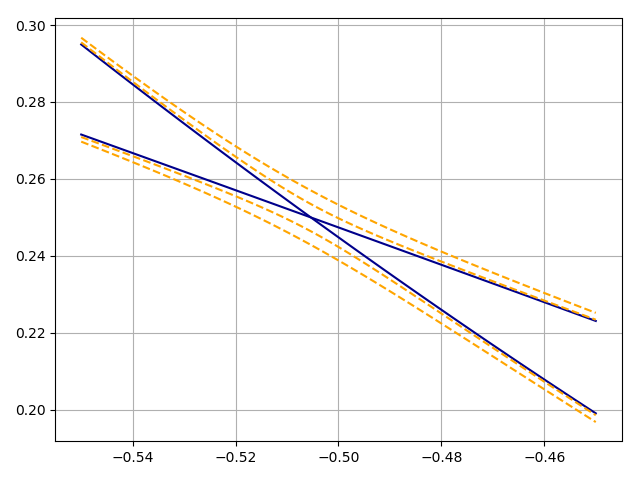
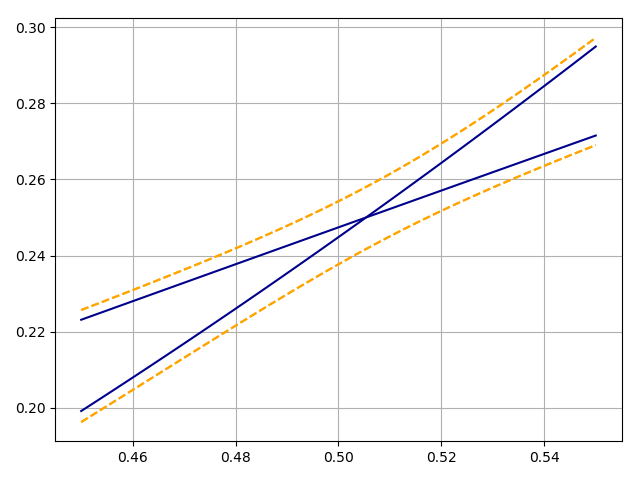
changed file names

diff --git a/examples/magnon_polarons_unidimensional.py b/examples/magnon_polarons_unidimensional.py
@@ -22,18 +22,18 @@ mu_B = 1
 g = 1
 S = 1
 J = 1
-Dz = 0
+Dz = 0.0
 Bz = 0
 
 # magnon polarons constants
-Dprime = [0.0, 0.0, 0.0]
-Bprime = [0.0, 0.01, 0.0]
+Dprime = [0.01, 0.02, 0.03]
+Bprime = [0.01, 0.02, 0.03]
 
 # lattice constants
 a = 1
 k_arr = np.linspace(-np.pi/a, np.pi/a, num=100)
 
-k_arr = np.linspace(-0.55, -0.45, num=100)
+k_arr = np.linspace(0.45, 0.55, num=100)
 # ylim = [0.20, 0.3]
 
 
@@ -47,16 +47,10 @@ def main():
 # # # # # # # # # # # # # # # # # # # # # # # # # # # # # # # # # # # # # # # #
 # Functions
 # # # # # # # # # # # # # # # # # # # # # # # # # # # # # # # # # # # # # # # #
-def phi(k):
-    return np.sqrt(0.5*hbar) * (
-        np.sqrt(0.5*S**3)*(-1j*Dprime[0]+Dprime[1])*np.abs(np.exp(1j*k*a)-1)**2 -
-        mu_B*g*np.sqrt(0.5*S)*(Bprime[0]+1j*Bprime[1])
-    )
-
 def psi(k):
-    return np.sqrt(0.5*hbar) * (
-        np.sqrt(0.5*S**3)*(1j*Dprime[0]+Dprime[1])*(np.exp(1j*k*a)-1)**2 -
-        mu_B*g*np.sqrt(0.5*S)*(Bprime[0]-1j*Bprime[1])
+    return np.sqrt(0.25*hbar*S) * (
+        S*(1j*Dprime[0]+Dprime[1])*np.abs(np.exp(1j*k*a)-1)**2 -
+        mu_B*g*(Bprime[0]-1j*Bprime[1])
     )
 
 def create_Tmatrix(k):
@@ -68,11 +62,11 @@ def create_Tmatrix(k):
     Tmatrix[2,2] = 2*J*S*(1-np.cos(k*a)) - 2*Dz*S*np.sin(k*a) + mu_B*g*Bz
     Tmatrix[3,3] = hbar/(4*m) + hbar*m*omega**2*(1-np.cos(k*a))/2
 
-    Tmatrix[0,1] = 0.5*phi(k) + 0.5*np.conjugate(psi(-k))
-    Tmatrix[1,0] = np.conjugate( 0.5*phi(k) + 0.5*np.conjugate(psi(-k)) )
+    Tmatrix[0,1] = 0.5*np.conjugate(psi(k))
+    Tmatrix[1,0] = 0.5*psi(k)
 
-    Tmatrix[2,3] = 0.5*psi(k) + 0.5*np.conjugate(phi(-k))
-    Tmatrix[3,2] = np.conjugate( 0.5*psi(k) + 0.5*np.conjugate(phi(-k)) )
+    Tmatrix[2,3] = 0.5*np.conjugate(psi(k))
+    Tmatrix[3,2] = 0.5*psi(k)
 
     return Tmatrix
 
@@ -84,11 +78,11 @@ def create_Umatrix(k):
     Umatrix[1,3] = -hbar/(4*m) + hbar*m*omega**2*(1-np.cos(k*a))/2
     Umatrix[3,1] = -hbar/(4*m) + hbar*m*omega**2*(1-np.cos(k*a))/2
 
-    Umatrix[0,3] = 0.5*phi(k) + 0.5*np.conjugate(psi(-k))
-    Umatrix[3,0] = 0.5*phi(k) + 0.5*np.conjugate(psi(-k))
+    Umatrix[0,3] = 0.5*np.conjugate(psi(k))
+    Umatrix[3,0] = 0.5*np.conjugate(psi(k))
 
-    Umatrix[1,2] = 0.5*phi(-k) + 0.5*np.conjugate(psi(k))
-    Umatrix[2,1] = 0.5*phi(-k) + 0.5*np.conjugate(psi(k))
+    Umatrix[1,2] = 0.5*np.conjugate(psi(k))
+    Umatrix[2,1] = 0.5*np.conjugate(psi(k))
 
     return Umatrix
 
@@ -96,18 +90,18 @@ def create_Umatrix(k):
 def dispersion_relation(k_arr):
     num_k = k_arr.shape[0]
 
-    energies = np.zeros((4, num_k))
+    energies = np.zeros((4*2, num_k))
     U = [None for _ in range(num_k)]
 
     for i, k in enumerate(k_arr):
         bosonic_system = BosonicSystem(create_Tmatrix(k), create_Umatrix(k))
-        energies[:,i] = bosonic_system.energies()
+        energies[:,i], U[i] = bosonic_system.diagonalize()
 
     fig = plt.figure()
     ax = fig.add_subplot(111)
     ax.plot(k_arr, phonon_energy(k_arr), color="darkblue")
     ax.plot(k_arr, magnon_energy(k_arr), color="darkblue")
-    for i in range(len(energies)):
+    for i in range(len(energies)//2):
         ax.plot(k_arr, energies[i,:], '--', color="orange")
 
     try:

diff --git a/examples/phonons_threedimensional.py b/examples/phonons_threedimensional.py
@@ -1,0 +1,85 @@
+# coding: utf-8
+# !/usr/bin/env python
+
+import numpy as np
+import os
+import sys
+
+sys.path.insert(0, "..")
+from BosonicSystem import *
+
+# # # # # # # # # # # # # # # # # # # # # # # # # # # # # # # # # # # # # # # #
+# Constants
+# # # # # # # # # # # # # # # # # # # # # # # # # # # # # # # # # # # # # # # #
+hbar = 1
+m = 1
+phi = np.array( [1, 2, 3] )
+a = 1
+k_arr = np.linspace(-np.pi/a, np.pi/a, num=100)
+
+os.chdir("..")
+
+# # # # # # # # # # # # # # # # # # # # # # # # # # # # # # # # # # # # # # # #
+# main
+# # # # # # # # # # # # # # # # # # # # # # # # # # # # # # # # # # # # # # # #
+def main():
+    dispersion_relation(k_arr)
+
+
+# # # # # # # # # # # # # # # # # # # # # # # # # # # # # # # # # # # # # # # #
+# Functions
+# # # # # # # # # # # # # # # # # # # # # # # # # # # # # # # # # # # # # # # #
+def create_Tmatrix(k):
+    u = hbar/(4*m)
+    v = hbar/4 * (np.exp(1j*k*a)-1)*(np.exp(-1j*k*a)-1) * phi
+    Tmatrix = np.zeros((2*3, 2*3), dtype=complex)
+
+    # alpha = {c{k,1}, c{k,2}, c{k,3}, c{-k,1}, c{-k,2}, c{-k,3}}
+    for lambd in range(3):
+        Tmatrix[lambd,lambd] = u + v[lambd]
+        Tmatrix[3+lambd,3+lambd] = u + v[lambd]
+
+    return Tmatrix
+
+
+def create_Umatrix(k):
+    u = hbar/(4*m)
+    v = hbar/4 * (np.exp(1j*k*a)-1)*(np.exp(-1j*k*a)-1) * phi
+    Umatrix = np.zeros((2*3, 2*3), dtype=complex)
+
+    # alpha = {a{k}, a{-k}}
+    for lambd in range(3):
+        Umatrix[lambd,3+lambd] = -u + v[lambd]
+        Umatrix[3+lambd,lambd] = -u + v[lambd]
+
+    return Umatrix
+
+
+def dispersion_relation(k_arr):
+    num_k = k_arr.shape[0]
+
+    energies = np.zeros((2*3, num_k))
+    U = [None for _ in range(num_k)]
+
+    for i, k in enumerate(k_arr):
+        bosonic_system = BosonicSystem(create_Tmatrix(k), create_Umatrix(k))
+        # energies[:,i], U[i] = bosonic_system.diagonalize()
+        energies[:,i] = bosonic_system.energies()
+
+    fig = plt.figure()
+    ax = fig.add_subplot(111)
+    for i in range(len(energies)):
+        ax.plot(k_arr, energies[i,:], '--', color="orange")
+    ax.grid()
+    fig.tight_layout()
+    fig.savefig("img/threedimensional_phonons.png")
+
+    plt.show()
+    plt.close(fig)
+
+
+# # # # # # # # # # # # # # # # # # # # # # # # # # # # # # # # # # # # # # # #
+# main
+# # # # # # # # # # # # # # # # # # # # # # # # # # # # # # # # # # # # # # # #
+if __name__ == '__main__':
+    main()
